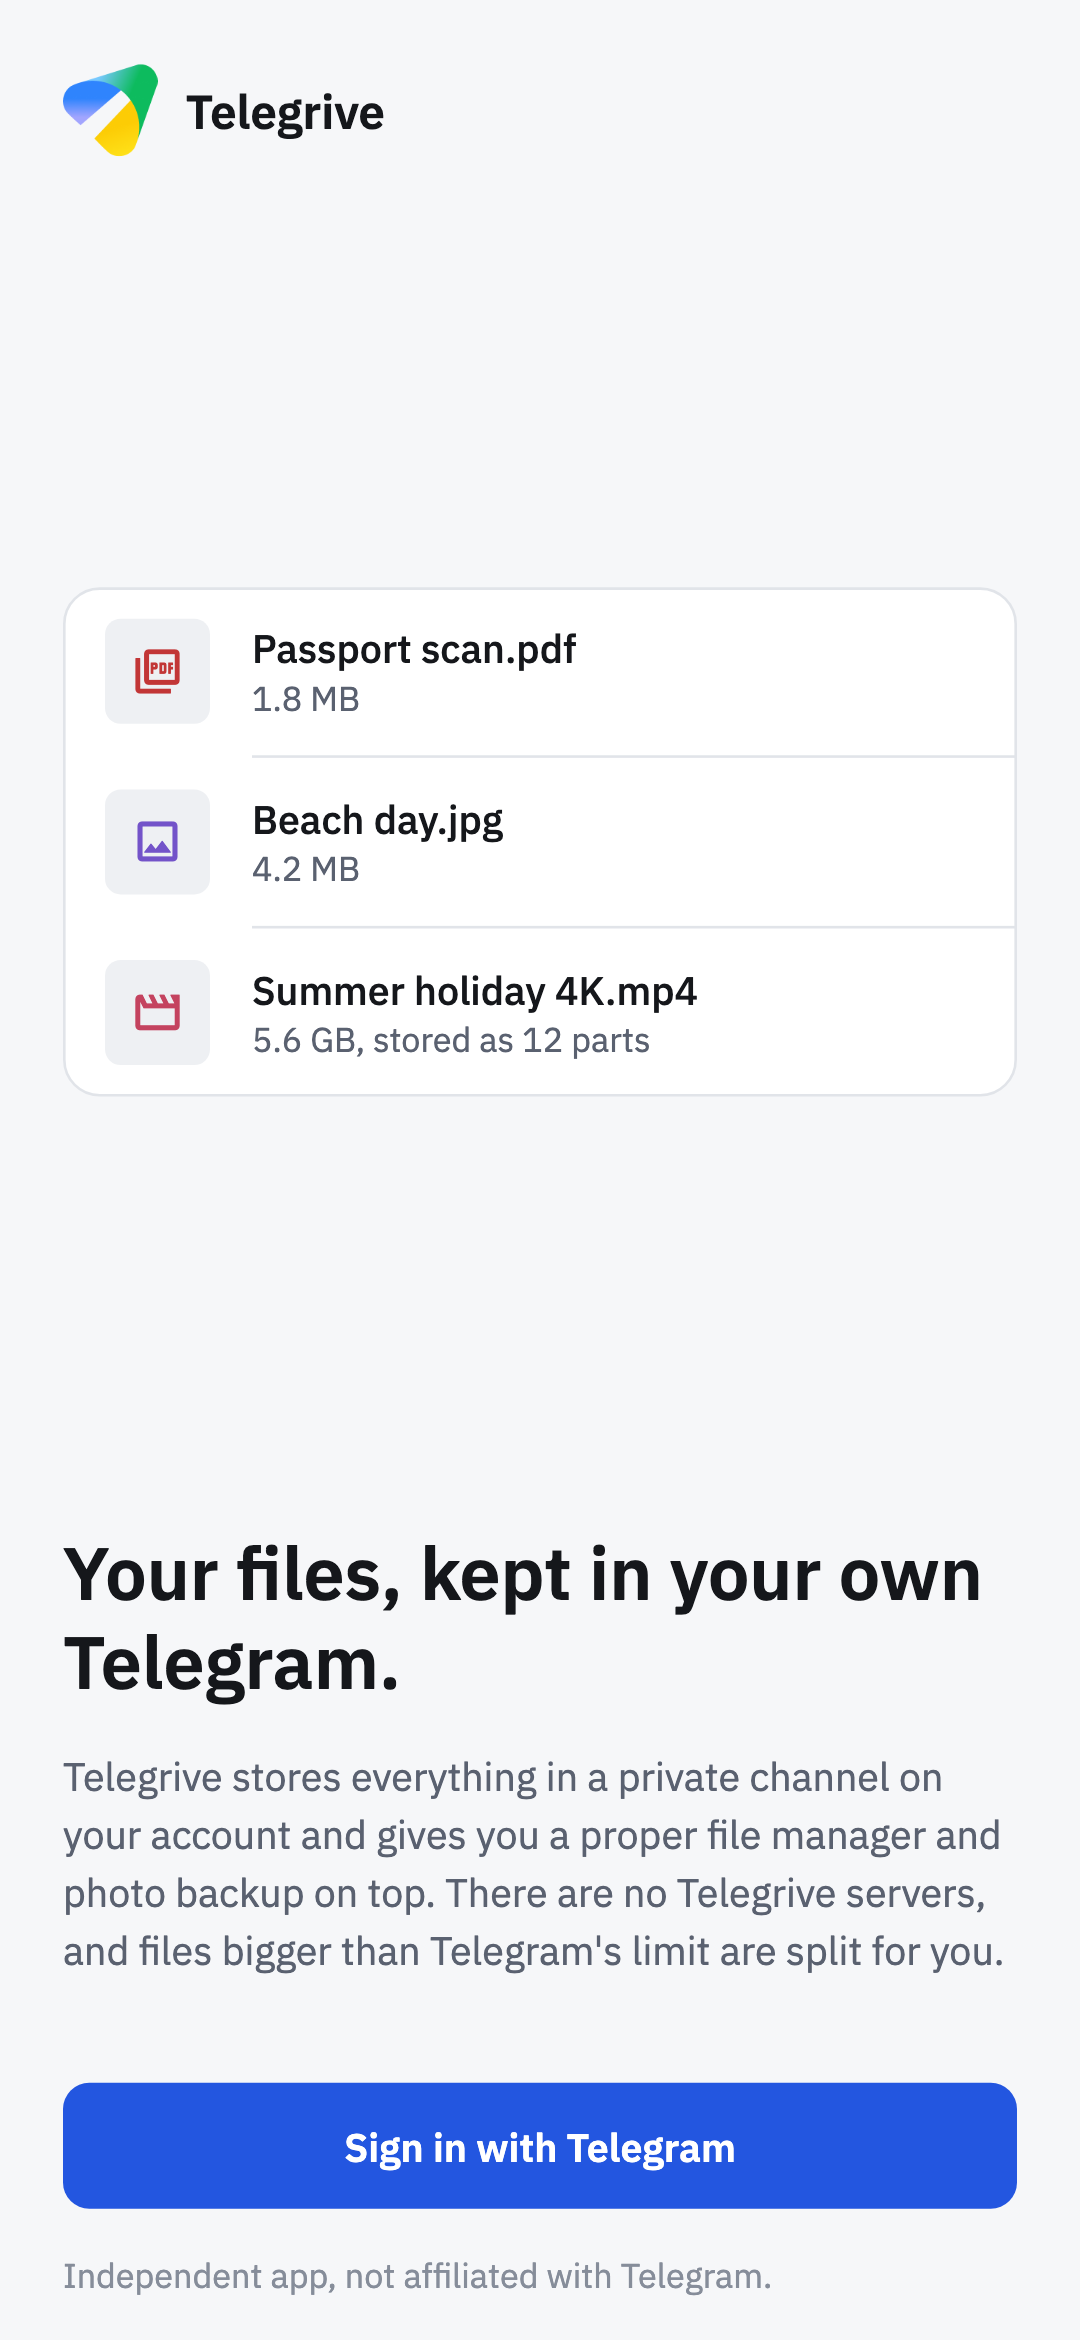
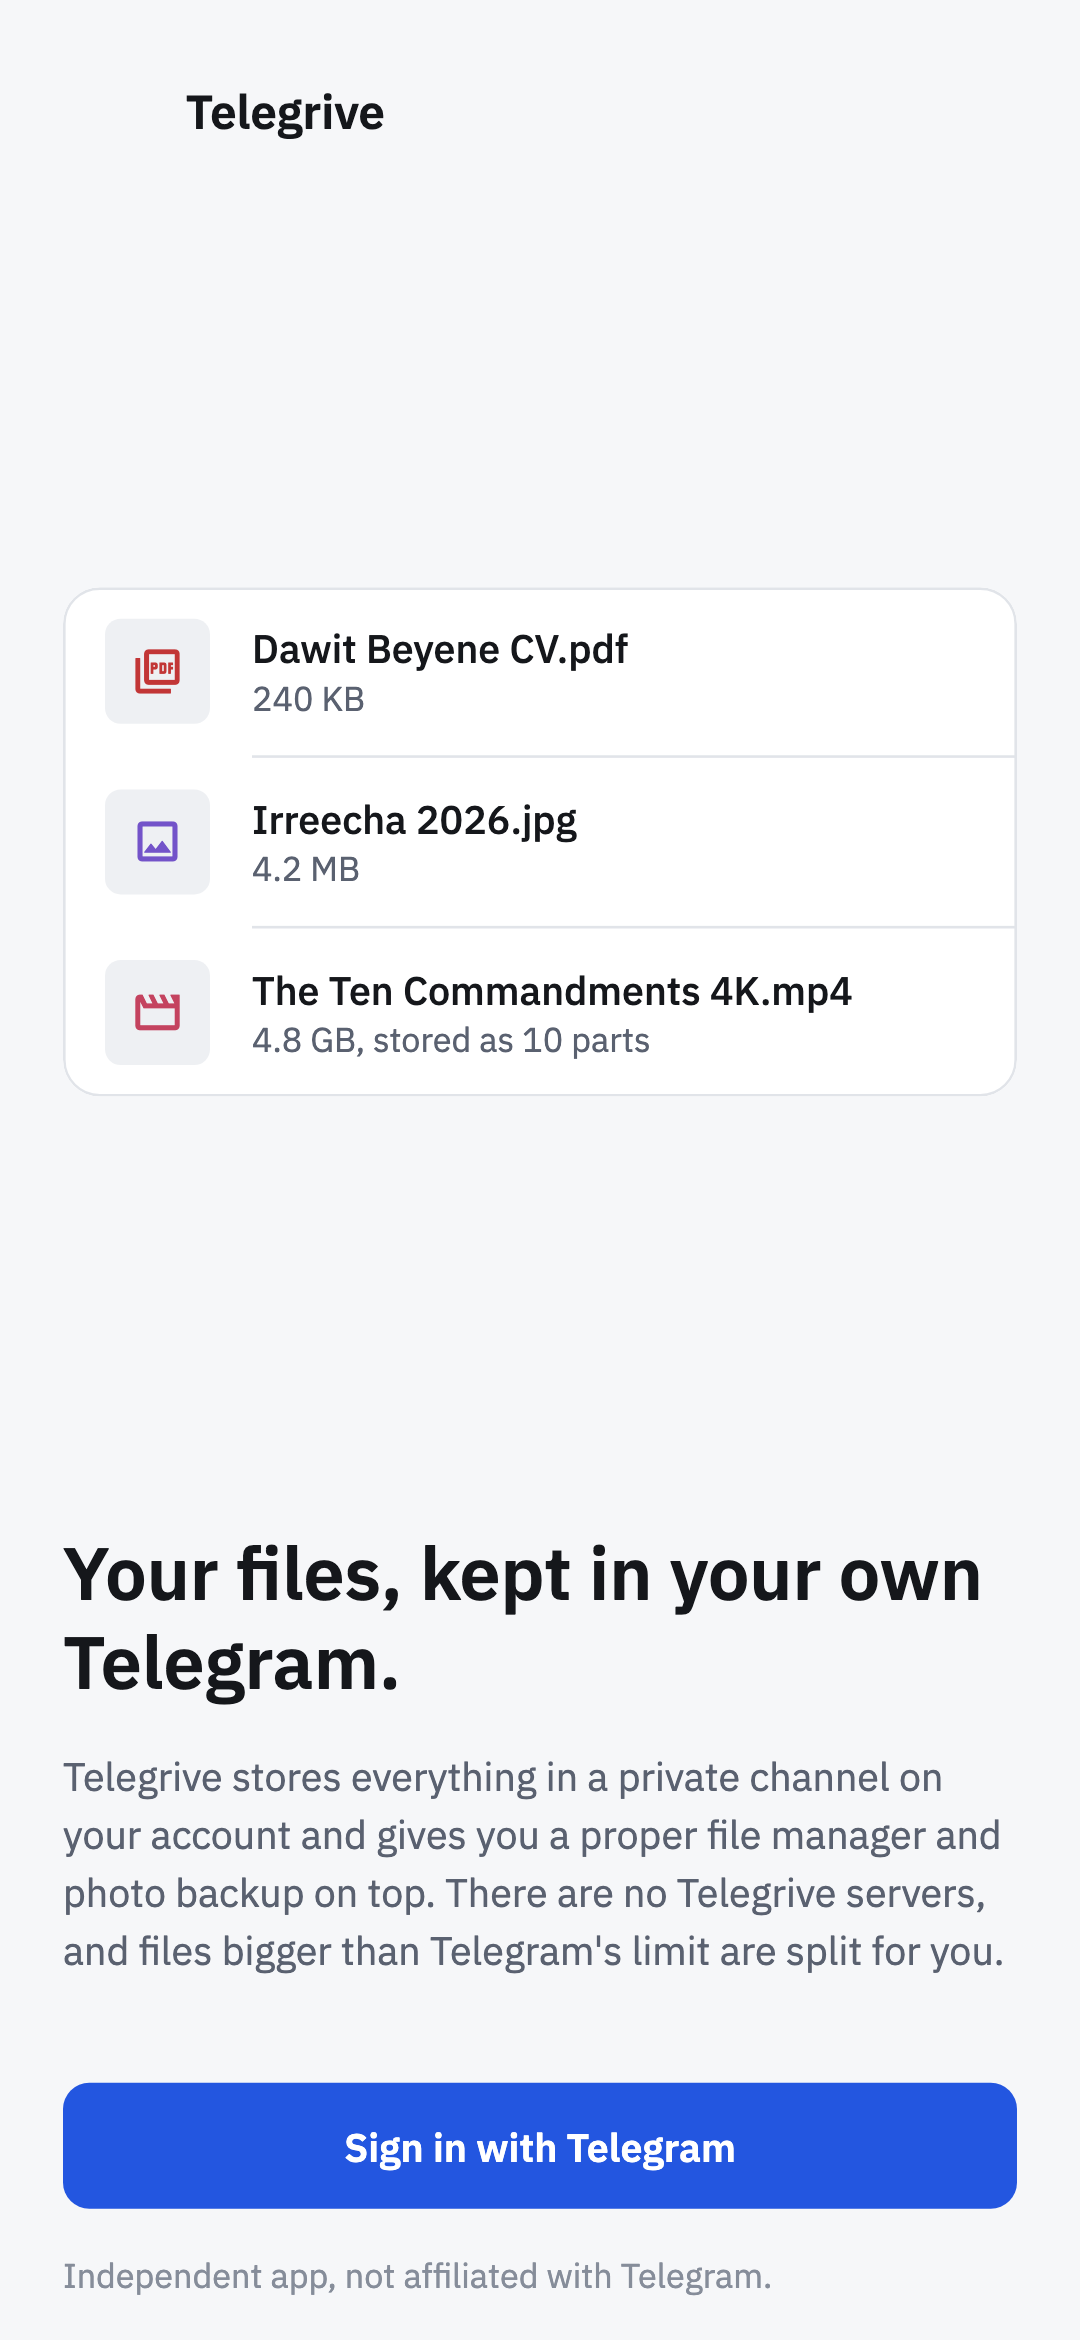
feat(welcome): the sample files are the author's own
The files on the welcome screen's card are now the author's: a CV,
Dawit Beyene CV.pdf, a photo of Irreecha, and The Ten Commandments in 4K,
the file bigger than Telegram allows, stored as ten parts. Tapping the CV
opens the author's GitHub page; the other rows stay pictures.

- the card is a Material with the same border and radius, so the CV row
  can show a ripple
- screen readers hear the CV as a link to GitHub
- welcome screenshots drawn again

diff --git a/lib/features/auth/presentation/welcome_screen.dart b/lib/features/auth/presentation/welcome_screen.dart
@@ -1,6 +1,7 @@
 import 'package:flutter/material.dart';
 import 'package:flutter_riverpod/flutter_riverpod.dart';
 import 'package:intl/intl.dart';
+import 'package:url_launcher/url_launcher.dart';
 
 import '../../../app/theme/tokens.dart';
 import '../../../app/theme/file_style.dart';
@@ -94,63 +95,72 @@ class WelcomeScreen extends ConsumerWidget {
 }
 
 /// What the drive looks like, drawn with the app's own rows rather than an
-/// illustration: a few files, one of them bigger than Telegram allows.
+/// illustration: a few files, one of them bigger than Telegram allows. They
+/// are the author's own: a CV that opens the author's GitHub page, a photo
+/// of Irreecha, and The Ten Commandments in ten parts.
 class _Glimpse extends StatelessWidget {
   const _Glimpse();
 
   static const _files = [
-    ('Passport scan.pdf', '1.8 MB', FileKind.document),
-    ('Beach day.jpg', '4.2 MB', FileKind.image),
-    ('Summer holiday 4K.mp4', '5.6 GB, stored as 12 parts', FileKind.video),
+    ('Dawit Beyene CV.pdf', '240 KB', FileKind.document),
+    ('Irreecha 2026.jpg', '4.2 MB', FileKind.image),
+    ('The Ten Commandments 4K.mp4', '4.8 GB, stored as 10 parts', FileKind.video),
   ];
+
+  /// Where the CV leads.
+  static final Uri _author = Uri.parse('https://github.com/daveragos');
 
   @override
   Widget build(BuildContext context) {
     final colors = context.colors;
-    return ExcludeSemantics(
-      child: DecoratedBox(
-        decoration: BoxDecoration(
-          color: colors.surface,
-          borderRadius: BorderRadius.circular(Radii.card),
-          border: Border.all(color: colors.line),
-        ),
-        child: Column(
-          children: [
-            for (final (index, (name, meta, kind)) in _files.indexed) ...[
-              if (index > 0) Divider(indent: 72, color: colors.line),
-              Padding(
-                padding: const EdgeInsets.symmetric(
-                  horizontal: Space.l,
-                  vertical: Space.m,
+    return Material(
+      color: colors.surface,
+      clipBehavior: Clip.antiAlias,
+      shape: RoundedRectangleBorder(
+        borderRadius: BorderRadius.circular(Radii.card),
+        side: BorderSide(color: colors.line),
+      ),
+      child: Column(
+        children: [
+          for (final (index, (name, meta, kind)) in _files.indexed) ...[
+            if (index > 0) Divider(indent: 72, color: colors.line),
+            if (index == 0)
+              Semantics(
+                link: true,
+                label: '$name, opens on GitHub',
+                excludeSemantics: true,
+                child: InkWell(
+                  onTap: () => launchUrl(_author, mode: LaunchMode.externalApplication),
+                  child: _row(context, name, meta, kind),
                 ),
-                child: Row(
-                  children: [
-                    FileIconTile(
-                      style: FileStyle.forFile(name, kind),
-                      size: 40,
-                    ),
-                    const SizedBox(width: Space.l),
-                    Expanded(
-                      child: Column(
-                        crossAxisAlignment: CrossAxisAlignment.start,
-                        children: [
-                          Text(name, style: context.text.titleSmall),
-                          Text(
-                            meta,
-                            style: context.text.bodySmall?.copyWith(
-                              fontFeatures: tabularFigures,
-                            ),
-                          ),
-                        ],
-                      ),
-                    ),
-                  ],
-                ),
-              ),
-            ],
+              )
+            else
+              ExcludeSemantics(child: _row(context, name, meta, kind)),
           ],
-        ),
+        ],
       ),
     );
   }
+
+  static Widget _row(BuildContext context, String name, String meta, FileKind kind) => Padding(
+    padding: const EdgeInsets.symmetric(horizontal: Space.l, vertical: Space.m),
+    child: Row(
+      children: [
+        FileIconTile(style: FileStyle.forFile(name, kind), size: 40),
+        const SizedBox(width: Space.l),
+        Expanded(
+          child: Column(
+            crossAxisAlignment: CrossAxisAlignment.start,
+            children: [
+              Text(name, style: context.text.titleSmall),
+              Text(
+                meta,
+                style: context.text.bodySmall?.copyWith(fontFeatures: tabularFigures),
+              ),
+            ],
+          ),
+        ),
+      ],
+    ),
+  );
 }
